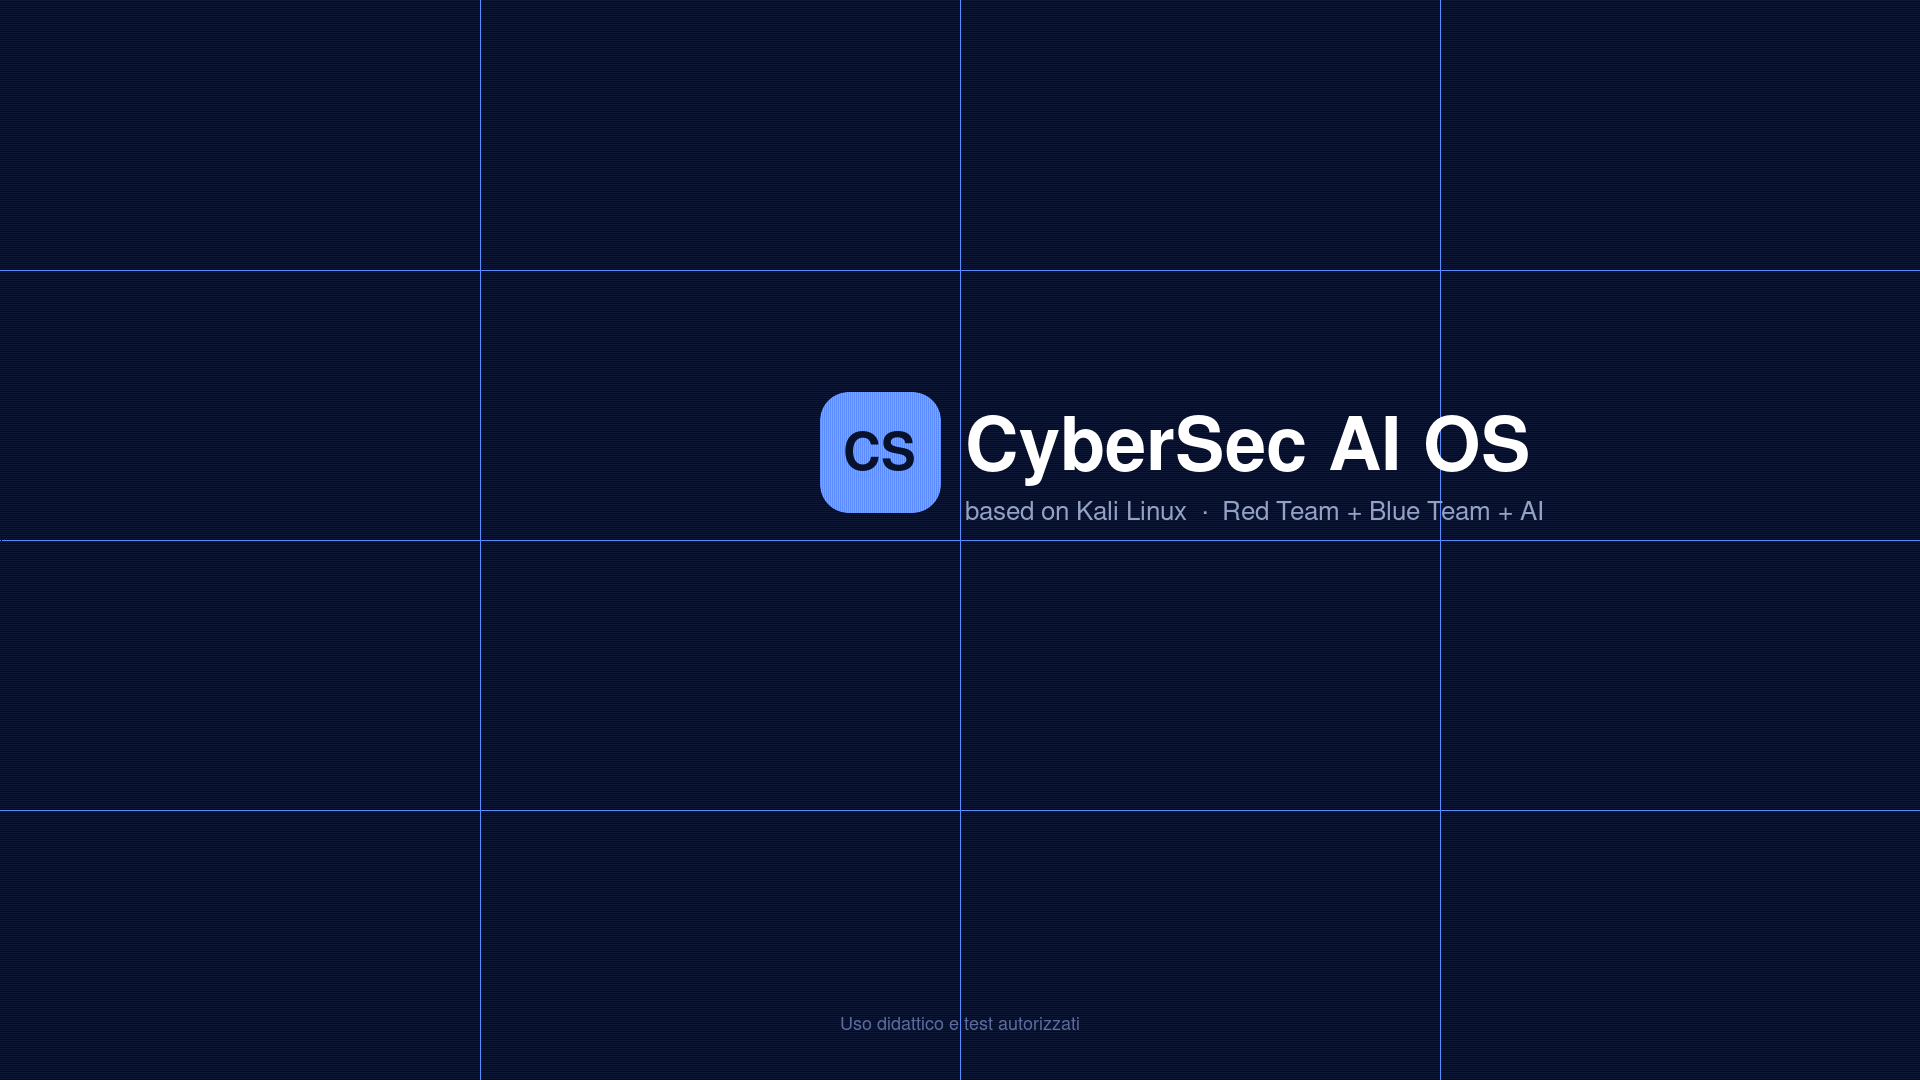
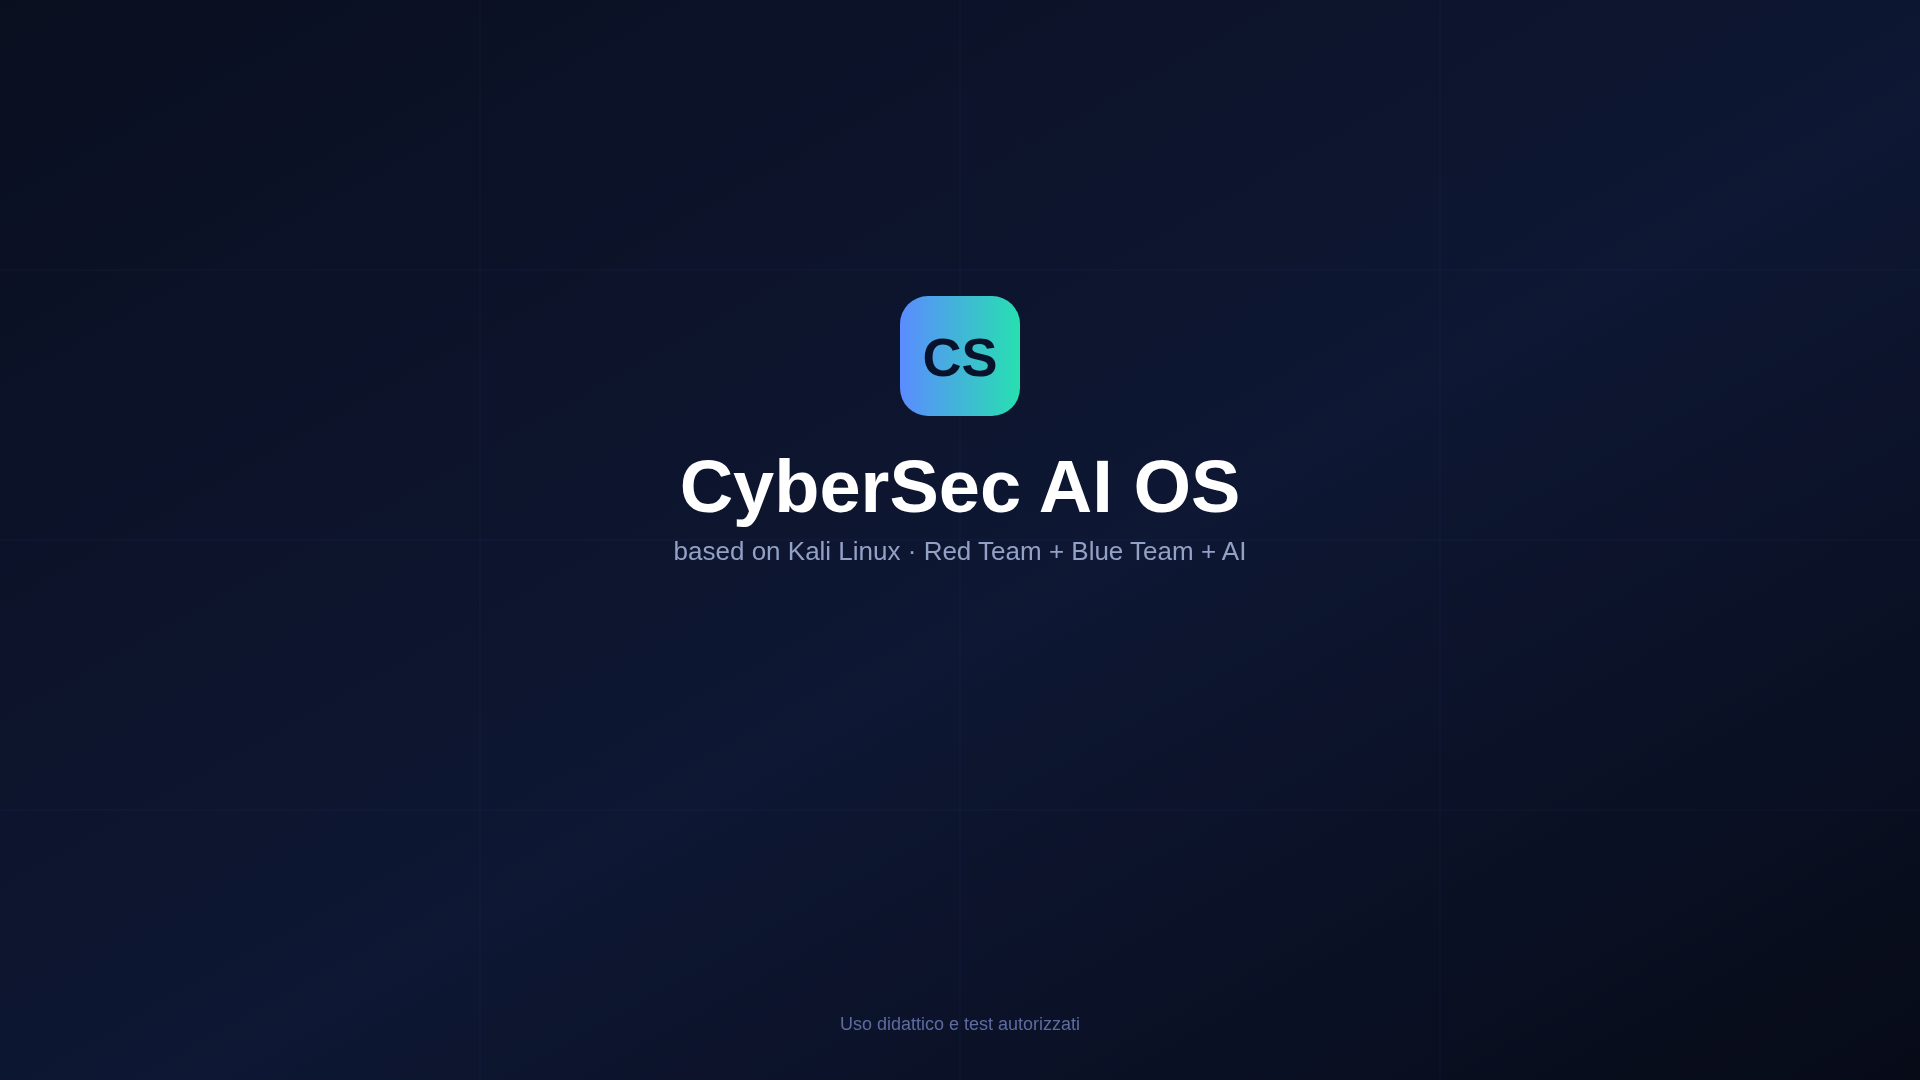
fix: branding "CyberSec AI OS" centrato (wallpaper + login) (v2.31.0)
- wallpaper.svg ridisegnato come stack verticale perfettamente centrato
  (logo sopra, titolo/sottotitolo sotto, tutto text-anchor=middle); prima il
  testo partiva da meta' schermo e il blocco risultava spostato a destra
- wallpaper.png rigenerato (1920x1080) dall'SVG centrato
- greeter di login centrato (position 50%,center 50%,center)

Changed region(s): [[0.0, 0.0, 1.0, 1.0], [0.9062, 0.9167, 1.0, 1.0]]

diff --git a/CHANGELOG.md b/CHANGELOG.md
@@ -1,5 +1,11 @@
 # Changelog
 
+## 2.31.0
+- **Branding centrato**: il blocco "CyberSec AI OS" del wallpaper (visibile anche
+  nella schermata di login) ora e' perfettamente centrato. Il testo prima partiva
+  da meta' schermo, spostando il blocco a destra; ridisegnato come stack verticale
+  centrato e PNG rigenerato. Riquadro di login anch'esso centrato (50%).
+
 ## 2.30.0
 - **Schermata di login personalizzata**: il greeter di lightdm usa il tuo sfondo e
   il tuo logo come avatar; niente piu' branding Kali alla richiesta di
